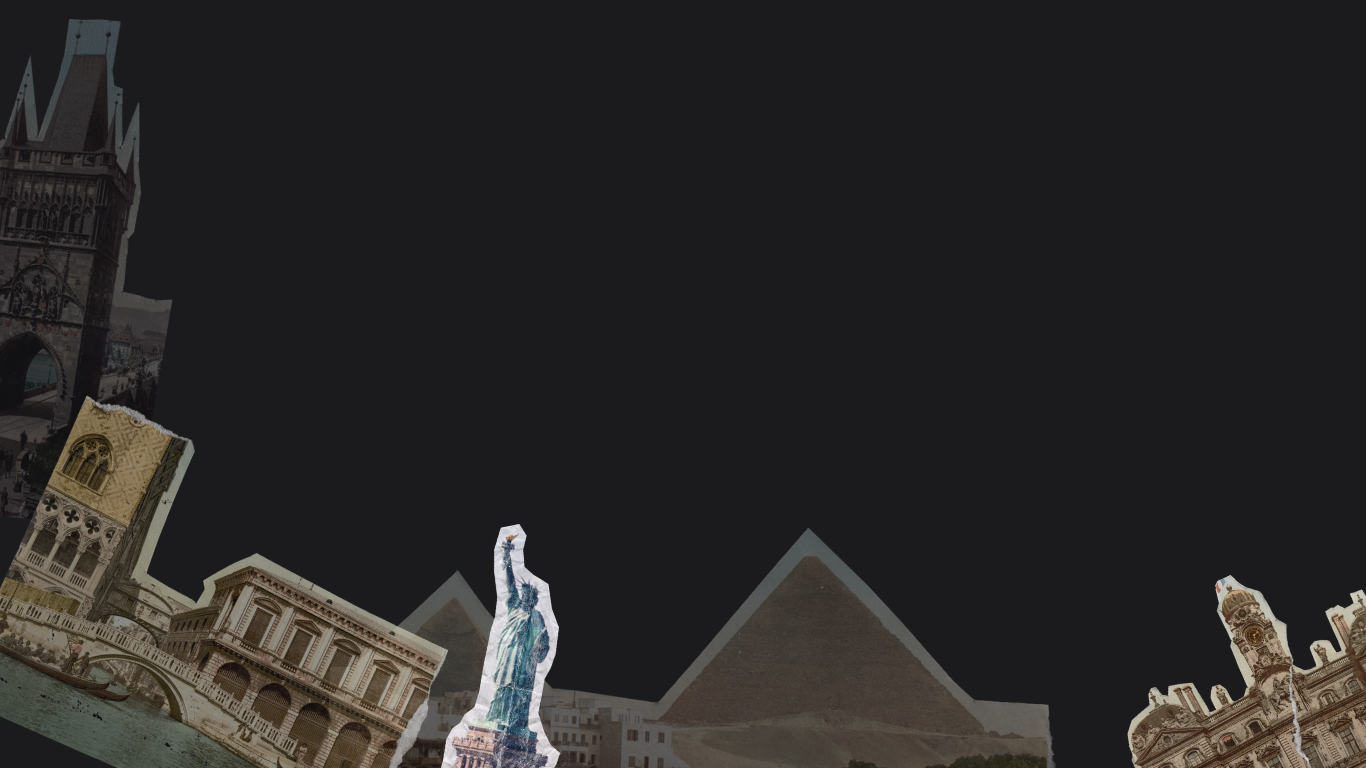
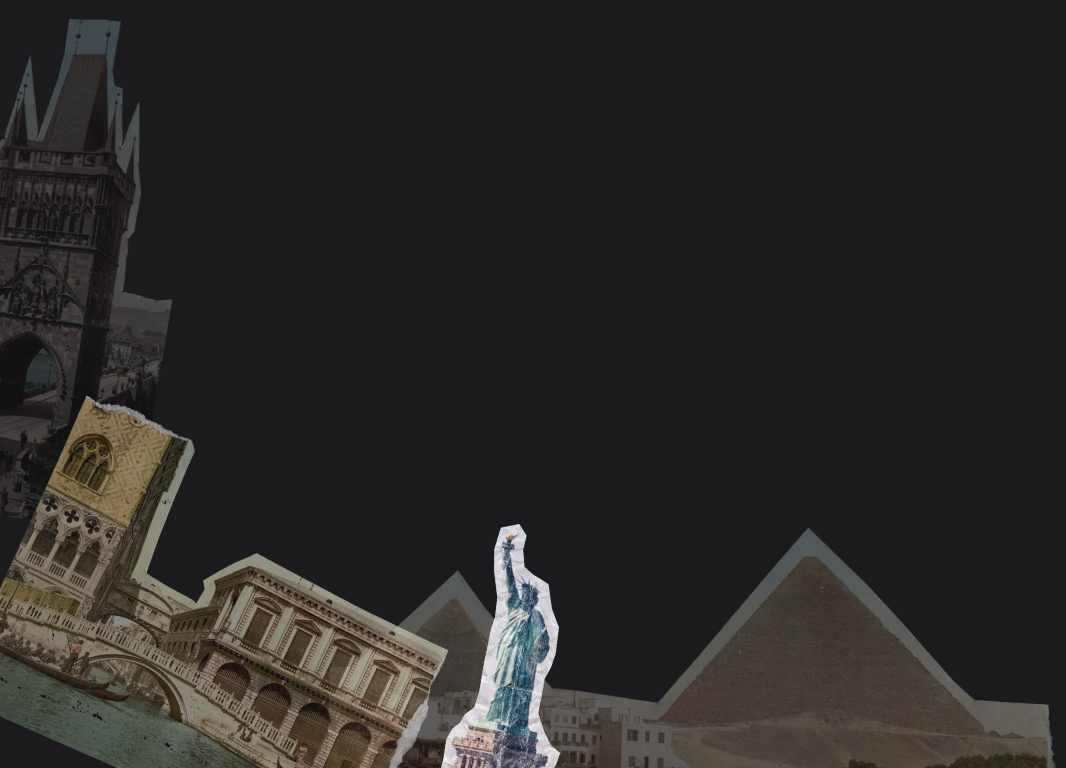
Booki border collage added

Changed region(s): [[0.0, 0.0312, 1.0, 1.0], [0.0, 0.2812, 0.031, 0.3125]]

diff --git a/css/style.css b/css/style.css
@@ -144,7 +144,7 @@ section {
 
 
 h2.PageTitle {
-    font-size:25px;
+    font-size:26px;
 
 }
 
@@ -354,10 +354,13 @@ p {
 
 button {
     border-width: 0px;
+    background-color: transparent;
 }
 
 button a {
     text-decoration:none;
+    background-color: transparent;
+    
     
 }
 
@@ -365,6 +368,7 @@ div.VisitSiteButtonContainer {
     display:flex;
     justify-content: right;
     padding-top:30px;
+    background-color: transparent;
 }
 div.OhmyfoodMobileViewHomeContainer img {
     width: 189px;
@@ -422,6 +426,8 @@ div.OhmyfoodAllText {
     left: 367px;
     position: relative;
     font-size: 14px;
+    z-index: 1;
+    background-color: transparent;
 }
 
 div.OhmyfoodMobileViewHomeContainer2 {
@@ -472,3 +478,76 @@ i.fa-solid.fa-arrow-left:hover {
     color:#F6E7D8;
 }
 
+
+div.BookiDescription {
+    z-index: 1;
+    background-color: transparent;
+    font-size:13px;
+
+}
+
+div.BookiDescription p {
+    width: 368px;
+    z-index: 1;
+    background-color: transparent;
+    position: relative;
+
+}
+
+div.BookiAllText {
+    display:flex;
+    justify-content:center;
+    align-items:center;
+    width:100vw;
+    height:100vh;
+    left: 367px;
+    position: relative;
+    font-size: 14px;
+    z-index: 1;
+    background-color: transparent;
+
+}
+
+div#BookiPage {
+    padding-left:4%;
+    padding-right:4%;
+    display:flex;
+    flex-direction:row;
+    justify-content: space-between;
+    overflow:hidden;
+    height:100vh;
+
+   
+
+}
+
+div.BookiTitleContainer {
+    background: transparent;
+    padding-bottom:20px;
+    display:flex;
+    justify-content: center;
+}
+
+h2.PageTitle{
+    background-color: transparent;
+
+}
+
+div.BookiDescription p {
+    text-align:center;
+}
+
+div.BookiCollageBorderContainer {
+    display: flex;
+    z-index: 0;
+    position: relative;
+    left: -485px;
+    align-items: center;
+    top: 14px;
+}
+
+div.BookiCollageBorderContainer img {
+    aspect-ratio: auto;
+    width: 58vw;
+
+}

diff --git a/Booki.html b/Booki.html
@@ -12,14 +12,14 @@
 </head>
 
 <body>
-    <div id="OhmyfoodPage">
+    <div id="BookiPage">
         <div class="BackArrowContainer">
             <a href="index.html"><i class="fa-solid fa-arrow-left"></i></a>
         </div>
-        <div class="OhmyfoodAllText">
-            <div class="OhmyfoodDescription">
-                <div class="OhmyfoodTitleContainer">
-                    <h2 class="PageTitle">Booki</h2>
+        <div class="BookiAllText">
+            <div class="BookiDescription">
+                <div class="BookiTitleContainer">
+                    <h2 class="PageTitle">BOOKI</h2>
                 </div>
         
                 <p>Booki is a holiday-planning company offering a platform for users to find the perfect accomodation or activities of their choosing. Booki makes planning easy for holidaymakers, with the option to filter searches based on categories such as budget and atmosphere.
@@ -31,28 +31,10 @@
             </div>
         </div>
 
-        <div class="OhmyfoodMobileViewMenuContainer">
-            <img src="images/The-Enchanted-Plate.png">
+        <div class="BookiCollageBorderContainer">
+            <img src="images/BookiCollageBorder.png">
         </div>
-
-        <div class="OhmyfoodMobileViewHomeContainer">
-            <img src="images/ohmyfood-home.png">
-        </div>
-
-        <div class="OhmyfoodMobileViewMenuContainer2">
-            <img src="images/The-Enchanted-Plate.png">
-        </div>
-
-        <div class="OhmyfoodMobileViewHomeContainer2">
-            <img src="images/ohmyfood-home.png">
-        </div>
-
-
-
     
-           
-
-
     </div>
 
     
